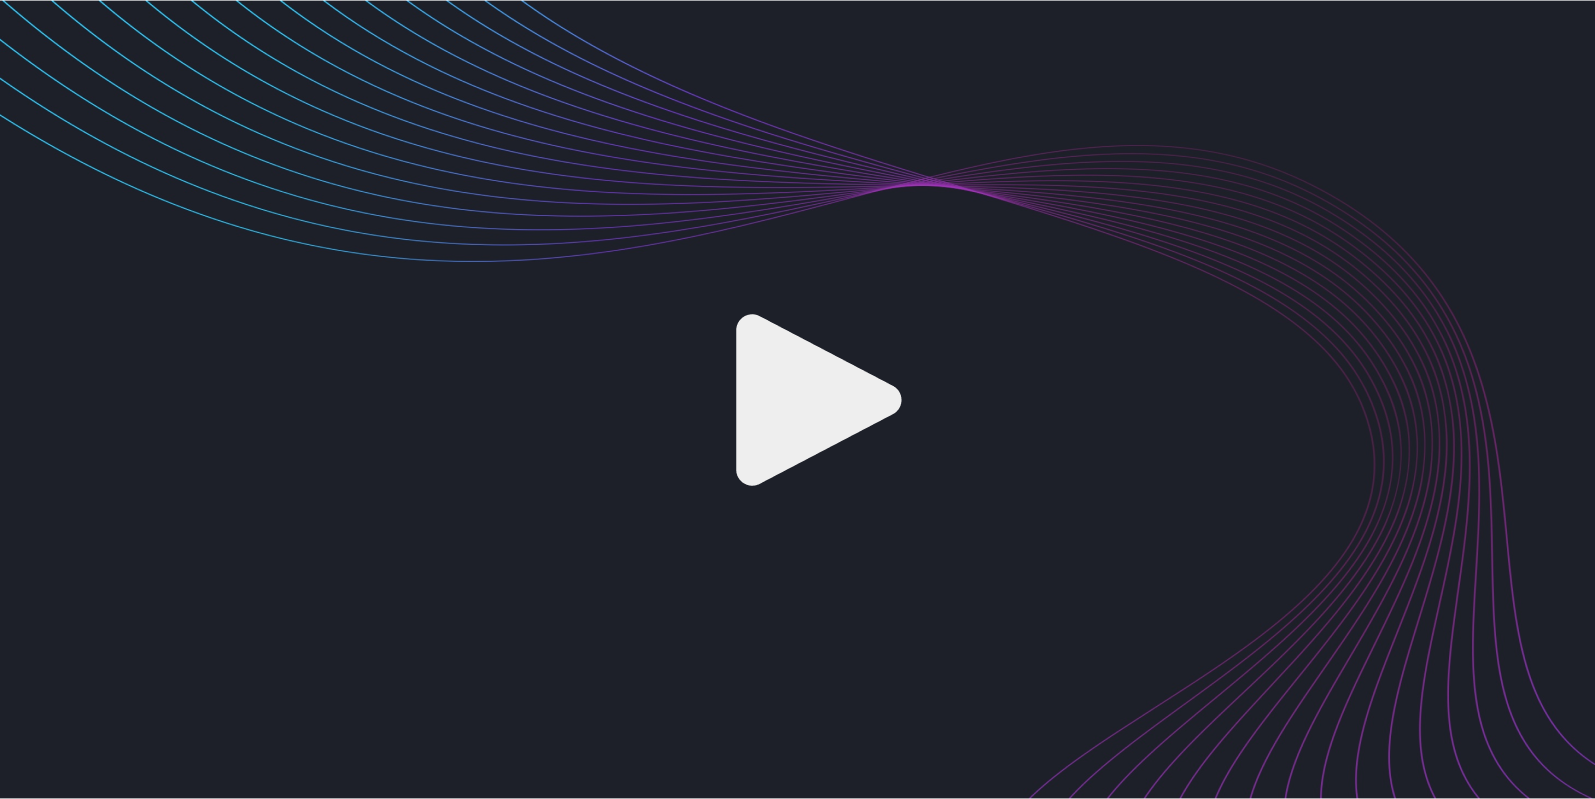
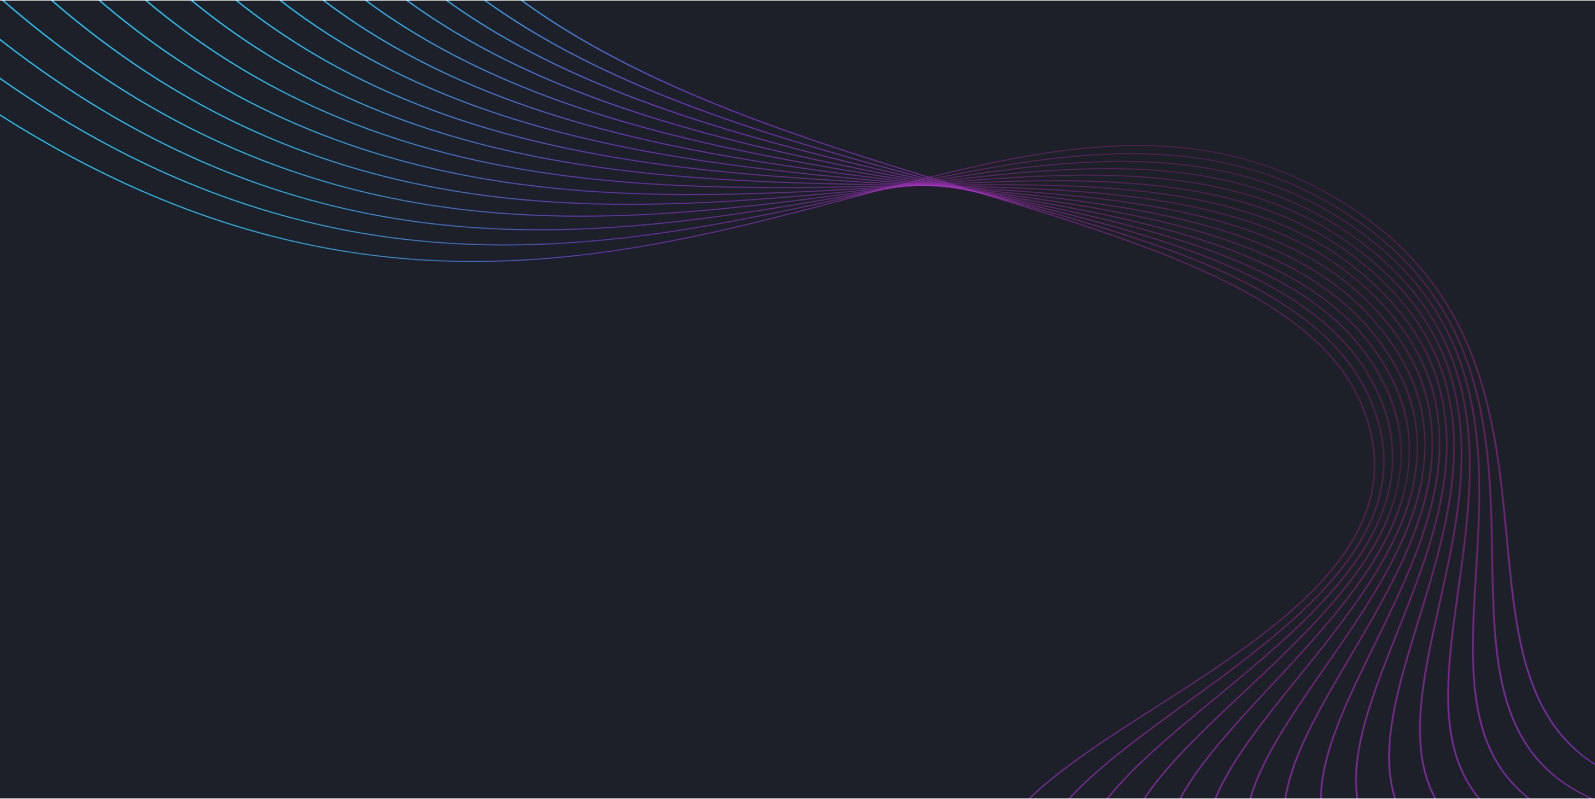
^^

Changed region(s): [[0.4608, 0.3905, 0.5837, 0.6008]]

diff --git a/src/navigation/career-whith-us.js b/src/navigation/career-whith-us.js
@@ -129,6 +129,67 @@ const start = function (data, ID) {
                                 </div>
                             </div>
                         </div>
+                        <div>
+                            <div style="background: #2B3040; border: 1px solid #353C50; padding: 20px; border-radius: 5px"> {/*item*/}
+                                <div style="display: flex; justify-content: space-between; align-items: center; margin-bottom: 20px"> {/*header*/}
+                                    <i style="display: block" class="c-jobs__iconprofession c-jobs__iconprofession--product"></i>
+                                    <div>
+                                        HTML-верстальщик
+                                    </div>
+                                    <div>
+                                        Активно
+                                    </div>
+                                </div>
+                                <div> {/*main*/}
+                                    <p style="margin-bottom: 0">Требуемый опыт работы: 1–3 года</p>
+                                    <p>Полная занятость, полный день</p>
+                                    
+                                    <p style="margin-bottom: 0">Работа исключительно в офисе.</p>
+                                    <p>В данный момент ведется разработка нескольких крупных проектов.</p>
+                                    
+                                    <div style="display: flex; justify-content: space-between; margin-bottom: 10px">
+                                        <div style="background: #32384B; border: 1px solid #353C50; padding: 10px; border-radius: 5px; margin-right: 10px">
+                                            <p style="font-weight: 600; font-size: 17px">Обязанности:</p>
+                                            <p style="margin-bottom: 5px;">Верстка шаблонов веб-страниц «с нуля»</p>
+                                            <p style="margin-bottom: 5px;">Изменение существующих шаблонов сайта</p>
+                                            <p style="margin-bottom: 5px;">Взаимодействие с дизайнером, программистом</p>
+                                            <p>Тестирование функционала готовых проектов</p>
+                                        </div>
+                                        <div style="background: #32384B; border: 1px solid #353C50; padding: 10px; border-radius: 5px">
+                                            <p style="font-weight: 600; font-size: 17px">Требования:</p>
+                                            <p style="margin-bottom: 5px;">Умение уверенно верстать флексами и гридами, понимать чем одно отличается от другого</p>
+                                            <p style="margin-bottom: 5px;">JS-программирование простейшей логики форм будет большим плюсом (валидация, модалки)</p>
+                                            <p style="margin-bottom: 5px;">Аккуратность, внимательность, педантичность к своему и чужому коду</p>
+                                            <p style="margin-bottom: 5px;">Опыт работы верстальщиком или Front-end разработчиком от 1 года</p>
+                                            <p style="margin-bottom: 5px;">Крос-браузерная pixel-perfect верстка и оптимизация под мобильные девайсы</p>
+                                            <p style="margin-bottom: 5px;">Отличные знания HTML5, CSS3, SCSS, Figma;</p>
+                                            <p style="margin-bottom: 5px;">Знания JavaScript и библиотек (jQuery), DOM;</p>
+                                            <p>Навыки редактирования изображений, фотографий, минимальные знания Adobe Photoshop;</p> 
+                                        </div>
+                                    </div>
+                                    
+                                    <p style="margin-bottom: 0">Рабочая неделя 5/2 c началом рабочего дня ( 10:00 - 18:00 Мск)</p>
+                                    <p>Мы находимся в Новороссийске, можем организовать встречу в офисе.</p>
+                                    
+                                    <p style="font-weight: 600; font-size: 17px">Ключевые навыки</p>
+                                    <div style="display: flex">
+                                        <div style="background: #32384B; padding: 5px; margin-right: 5px; border: 1px solid #353C50; border-radius: 5px">JavaScript</div>
+                                        <div style="background: #32384B; padding: 5px; margin-right: 5px; border: 1px solid #353C50; border-radius: 5px">CSS3</div>
+                                        <div style="background: #32384B; padding: 5px; margin-right: 5px; border: 1px solid #353C50; border-radius: 5px">HTML5</div>
+                                        <div style="background: #32384B; padding: 5px; margin-right: 5px; border: 1px solid #353C50; border-radius: 5px">jQuery</div>
+                                        <div style="background: #32384B; padding: 5px; margin-right: 5px; border: 1px solid #353C50; border-radius: 5px">Git</div>
+                                        <div style="background: #32384B; padding: 5px; margin-right: 5px; border: 1px solid #353C50; border-radius: 5px">Figma</div>
+                                        <div style="background: #32384B; padding: 5px; margin-right: 5px; border: 1px solid #353C50; border-radius: 5px">Adobe Photoshop</div>
+                                        <div style="background: #32384B; padding: 5px; margin-right: 5px; border: 1px solid #353C50; border-radius: 5px">Web-дизайн</div>
+                                        <div style="background: #32384B; padding: 5px; margin-right: 5px; border: 1px solid #353C50; border-radius: 5px">Чувство стиля</div>
+                                        <div style="background: #32384B; padding: 5px; border: 1px solid #353C50; border-radius: 5px">Креативность</div>
+                                    </div>
+                                </div>
+                                <div> {/*footer*/}
+                                    
+                                </div>
+                            </div>
+                        </div>
                         <div class="c-job__withus">
                             <h2 class="c-jobs__subtitle">{Variable.lang.p.waitYouTeam}</h2>
                         </div>

diff --git a/src/assets/css/main/blocks/header.scss b/src/assets/css/main/blocks/header.scss
@@ -540,14 +540,14 @@
         cursor: pointer;
         width: 50px;
         height: 50px;
-        bottom: 20px;
-        right: 20px;
+        bottom: 5px;
+        right: 5px;
 
         @media(max-width: 767px) {
             width: 40px;
             height: 40px;
-            right: 10px;
-            bottom: 10px;
+            right: 0px;
+            bottom: 0px;
         }
 
         img {
@@ -577,8 +577,8 @@
             }
 
             &__settings {
-                bottom: 5px;
-                right: 5px;
+                bottom: 0px;
+                right: 0px;
                 width: 20px;
                 height: 20px;
             }

diff --git a/src/component/element/BottomMenu.js b/src/component/element/BottomMenu.js
@@ -128,7 +128,7 @@ const BottomMenu = function () {
                     onClick={(e) => { e.stopPropagation(); fn.modals.ModalMobileMainSettings(); }}>
                 </a>
             </div>
-            {/* <div class="c-userpanel__addmodal">
+            <div class="c-userpanel__addmodal">
                 <div class="c-userpanel__inner">
                     <p>{Variable.lang.button.create}</p>
                     <a class="c-userpanel__link" onclick={fn.siteLink} href="/user/posts/">

diff --git a/src/component/element/player/VideoPlayer.js b/src/component/element/player/VideoPlayer.js
@@ -35,6 +35,7 @@ const VideoPlayer = function ({ Static, item, path, className = false }) {
             ]}
         >
             <div class="video_sign"></div>
+            {/* <img style="width: 13%; position: absolute; left: 50%; top: 50%; transform: translate(-50%, -50%)" src={svg['play_button']} /> */}
             <video
                 playsinline
                 poster={images["video_background"]}

diff --git a/src/navigation/applicant.js b/src/navigation/applicant.js
@@ -1,0 +1,24 @@
+import {
+    jsx,
+    jsxFrag,
+    init
+  } from "@betarost/cemjs";
+
+
+  
+  const start = function (data, ID) {
+
+    init(
+      async () => {
+        
+      },
+      () => {
+        return (
+          <div class="blog_page_container c-main__body">
+            1
+          </div>
+        )
+      }, ID
+    );
+  };
+  export default start;
